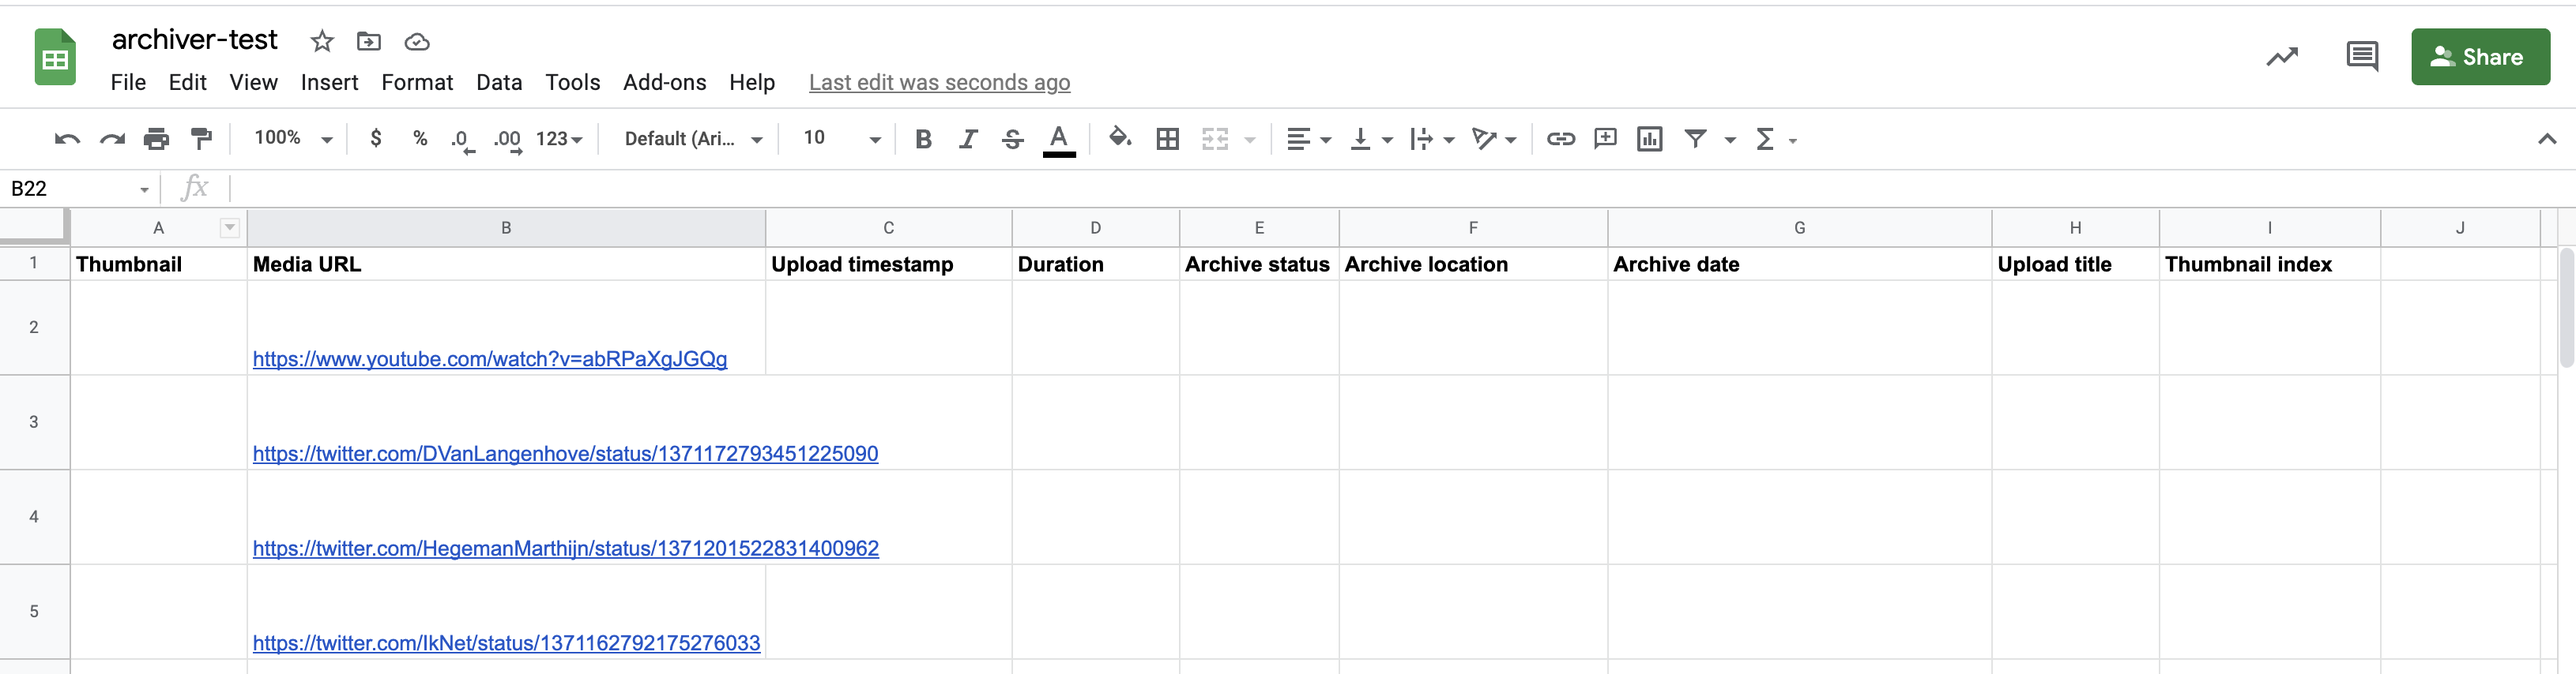
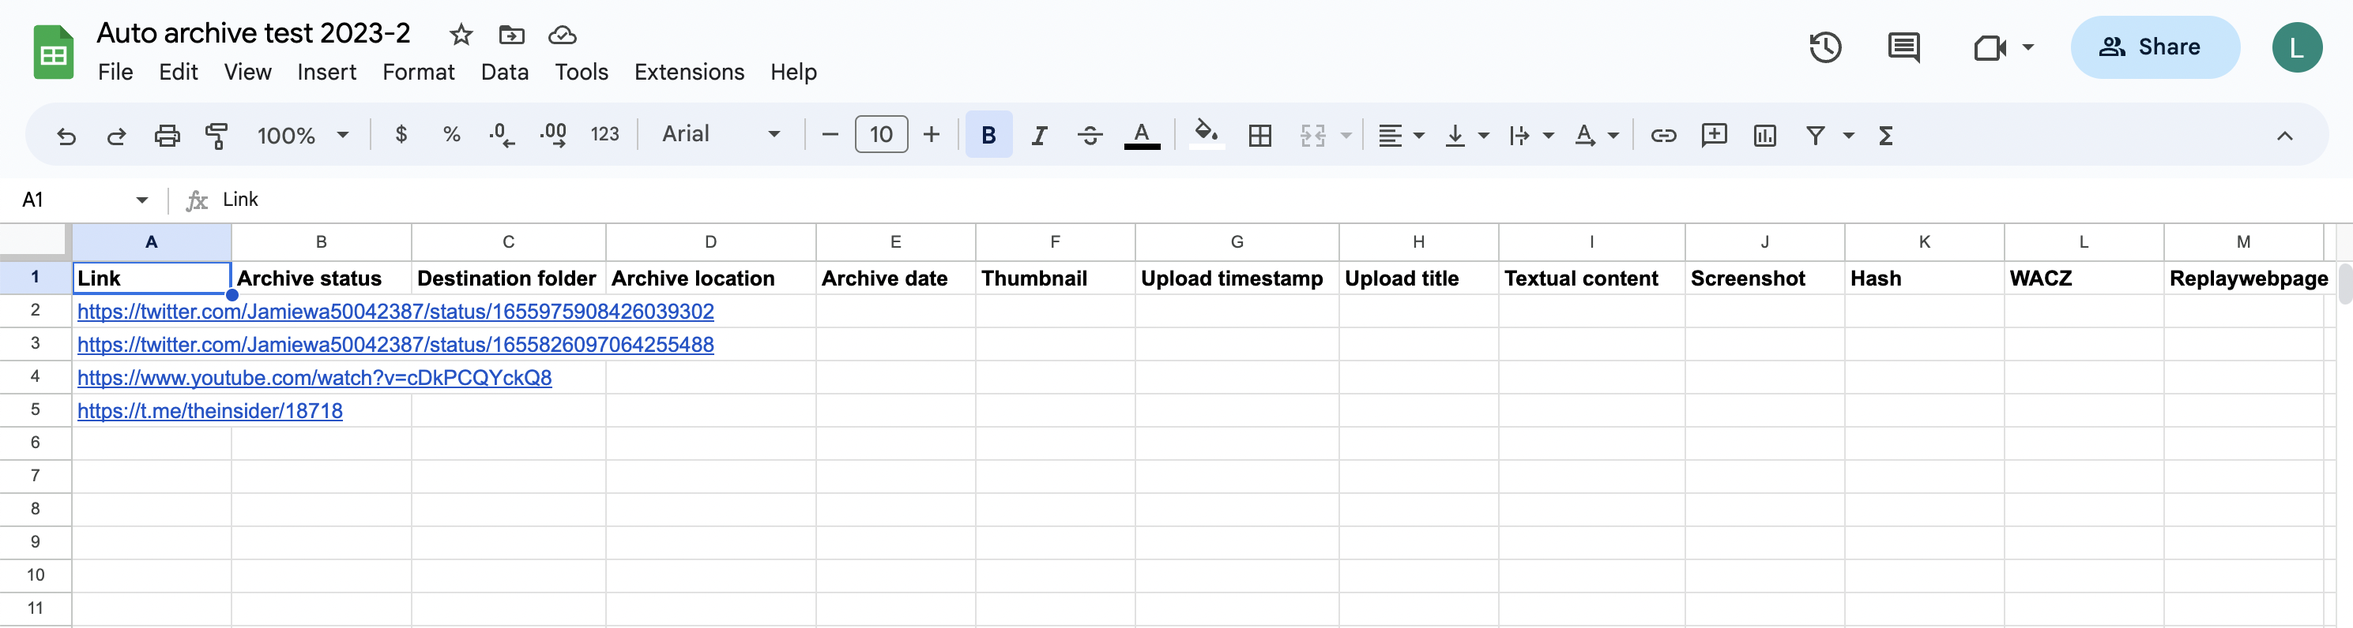
Update README images

diff --git a/README.md b/README.md
@@ -20,7 +20,7 @@ There are 3 ways to use the auto-archiver:
 But **you always need a configuration/orchestration file**, which is where you'll configure where/what/how to archive. Make sure you read [orchestration](#orchestration).
 
 
-## How to run the auto-archiver
+## How to install and run the auto-archiver
 
 ### Option 1 - docker
 
@@ -200,16 +200,19 @@ Outputs:
 * **WACZ**: Link to a WACZ web archive of post
 * **ReplayWebpage**: Link to a ReplayWebpage viewer of the WACZ archive
 
-For example, for use with this spreadsheet:
+For example, this is a spreadsheet configured with all of the columns for the auto archiver and a few URLs to archive. (Note that the column names are not case sensitive.)
 
-![A screenshot of a Google Spreadsheet with column headers defined as above, and several Youtube and Twitter URLs in the "Media URL" column](docs/demo-before.png)
+![A screenshot of a Google Spreadsheet with column headers defined as above, and several Youtube and Twitter URLs in the "Link" column](docs/demo-before.png)
 
 When the auto archiver starts running, it updates the "Archive status" column.
-![A screenshot of a Google Spreadsheet with column headers defined as above, and several Youtube and Twitter URLs in the "Media URL" column. The auto archiver has added "archive in progress" to one of the status columns.](docs/demo-progress.png)
+![A screenshot of a Google Spreadsheet with column headers defined as above, and several Youtube and Twitter URLs in the "Link" column. The auto archiver has added "archive in progress" to one of the status columns.](docs/demo-progress.png)
 The links are downloaded and archived, and the spreadsheet is updated to the following:
 ![A screenshot of a Google Spreadsheet with videos archived and metadata added per the description of the columns above.](docs/demo-after.png)
 Note that the first row is skipped, as it is assumed to be a header row (`--gsheet_feeder.header=1` and you can change it if you use more rows above). Rows with an empty URL column, or a non-empty archive column are also skipped. All sheets in the document will be checked.
 
+The "archive location" link contains the path of the archived file, in local storage, S3, or in Google Drive.
+
+![The archive result for a link in the demo sheet.](docs/demo-archive.png)
 
 ---
 ## Development
